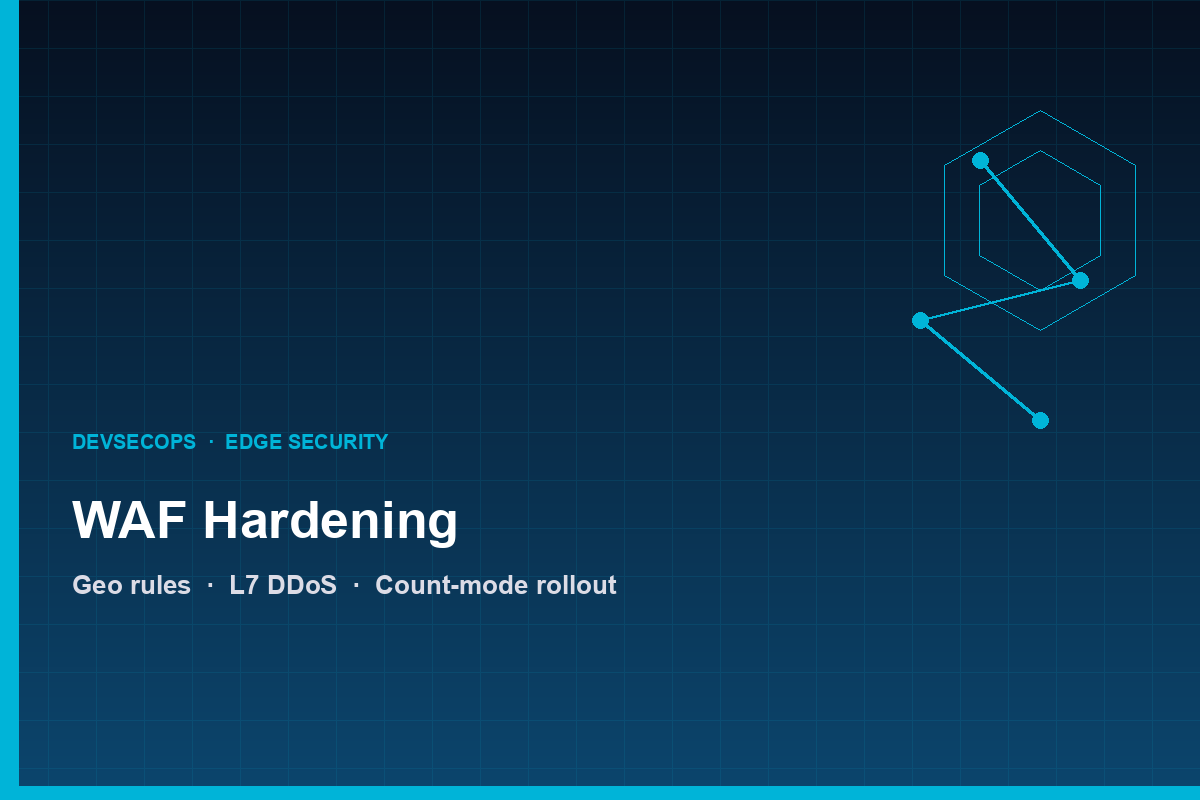
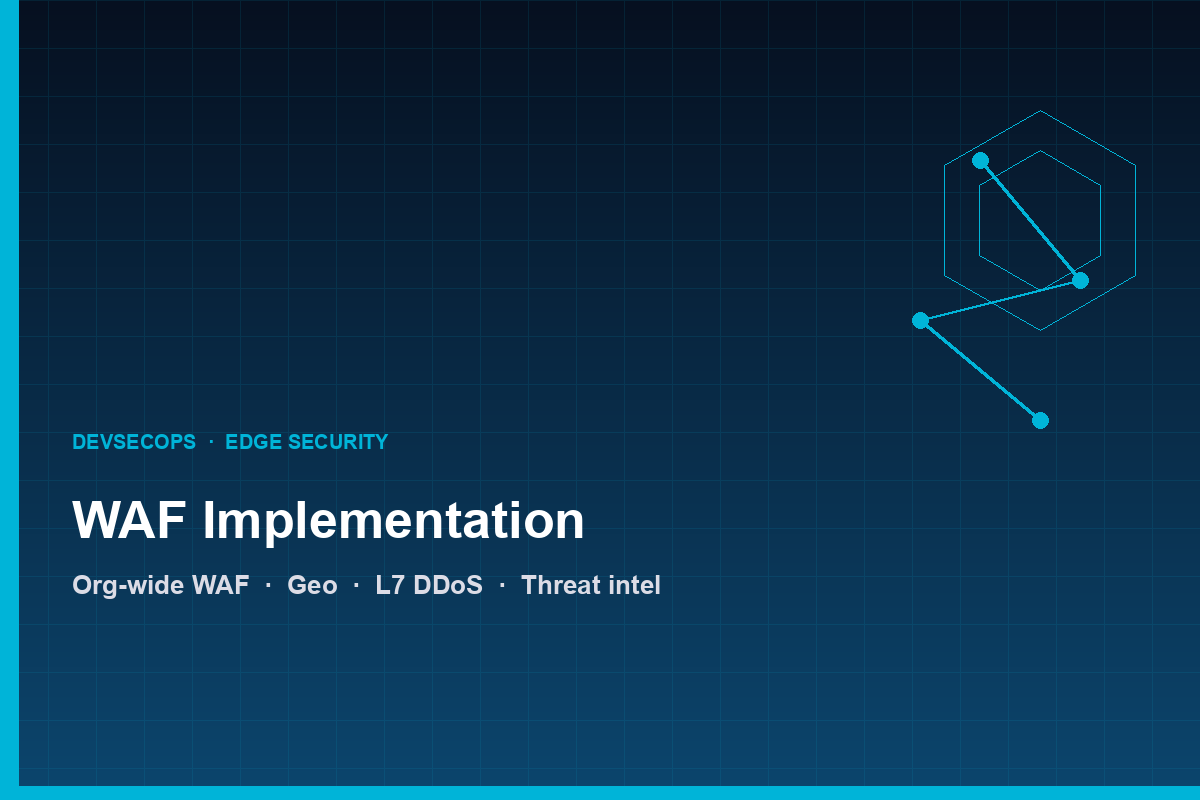
Rewrite WAF as an org-wide implementation and stop HTML from being cached for a year.
The resume page was served with a 1-year cache header, so visitors could keep seeing the old System Engineer version after deploys.

Changed region(s): [[0.1542, 0.625, 0.4933, 0.6875], [0.3083, 0.7188, 0.555, 0.75], [0.0617, 0.7188, 0.2775, 0.75]]

diff --git a/Resume/index.html b/Resume/index.html
@@ -119,7 +119,7 @@
                         <p class="profile_description">
                             DevSecOps Engineer with 8 years of experience across IT operations, cloud infrastructure, and cybersecurity.
                             I design Zero Trust access, harden cloud and edge controls, and automate secure infrastructure on AWS with Terraform, IAM, Docker, and Kubernetes.
-                            Currently leading DevSecOps at Viz.ai — JIT access, WAF hardening, and cloud security posture in a HIPAA-regulated, high-velocity platform.
+                            Currently leading DevSecOps at Viz.ai — JIT access, WAF implementation, and cloud security posture in a HIPAA-regulated, high-velocity platform.
                         </p>
                     </section>
                     
@@ -194,11 +194,11 @@
                                     <h3 class="experience_title">DevSecOps Engineer, at Viz.ai</h3>
                                     <span class="experience_company">Aug 2025 – Present | <a href="https://Viz.ai/">Viz.ai</a> </span>
                                     <ul class="experience_description">
-                                            &#8226; Built and rolled out a company-wide JIT access platform across RDS, S3, DynamoDB, Redash, and OpenSearch — replacing standing privileges with time-bound, audited access and an Emergency Access tier.<br>
-                                            &#8226; Eliminated the Ops jump-host dependency for production DB login; implemented a real break-glass user, rotated master credentials, and locked them from developer teams.<br>
-                                            &#8226; Hardened WAF with geolocation restrictions and L7 DDoS rules; rolled out in count mode and tuned over two weeks across QA and Production.<br>
-                                            &#8226; Rotated 321 GCP/customer access keys, reduced AWS Lambda deprecated-runtime functions 32 → 14, and cut the Wiz Medium findings backlog 15% from 1,025.<br>
-                                            &#8226; Enforced Amazon Bedrock Guardrails across AWS accounts; moved Mobile and QA behind VPN with VPN-authenticated GitHub Actions, avoiding ~$350/month in macOS CI cost.<br>
+                                            &#8226; JIT Access Platform — built and rolled out company-wide across RDS, S3, DynamoDB, Redash, and OpenSearch; replaced standing privileges with time-bound, audited access and an Emergency Access tier.<br>
+                                            &#8226; Implemented IAM authentication for production DB logins; added a real break-glass user, rotated master credentials, and locked them from developer teams.<br>
+                                            &#8226; Implemented a company-wide WAF with geolocation restrictions, L7 DDoS protection, and threat intelligence; rolled out in count mode and tuned over two weeks across QA and Production.<br>
+                                            &#8226; Rotated 321 GCP/customer access keys, reduced AWS Lambda deprecated-runtime functions 32 → 0, and cut the Wiz findings backlog by 75%.<br>
+                                            &#8226; Enforced Amazon Bedrock Guardrails across AWS accounts; moved Mobile and QA behind the company network with VPN-authenticated GitHub Actions, avoiding ~$350/month in macOS CI cost.<br>
                                             &#8226; Decommissioned a legacy healthcare tenant, purged the related external attack surface, and stripped standing S3/DynamoDB permissions from SSO roles.
                                     </ul>
                                 </div>

diff --git a/experience/index.html b/experience/index.html
@@ -51,11 +51,11 @@
             <h3>DevSecOps Engineer</h3>
             <p>Aug 2025 – Present | <a href="https://viz.ai/">Viz.ai</a></p>
             <ul>
-              &#8226; Built and rolled out a company-wide JIT access platform across RDS, S3, DynamoDB, Redash, and OpenSearch — replacing standing privileges with time-bound, audited access and an Emergency Access tier.<br>
-              &#8226; Eliminated the Ops jump-host dependency for production DB login; implemented a real break-glass user, rotated master credentials, and locked them from developer teams.<br>
-              &#8226; Hardened WAF with geolocation restrictions and L7 DDoS rules; rolled out in count mode and tuned over two weeks across QA and Production.<br>
-              &#8226; Rotated 321 GCP/customer access keys, reduced AWS Lambda deprecated-runtime functions 32 → 14, and cut the Wiz Medium findings backlog 15% from 1,025.<br>
-              &#8226; Enforced Amazon Bedrock Guardrails across AWS accounts; moved Mobile and QA behind VPN with VPN-authenticated GitHub Actions, avoiding ~$350/month in macOS CI cost.<br>
+              &#8226; Built and rolled out a company-wide JIT access platform across RDS, S3, DynamoDB, Redash, and OpenSearch. Replaced standing privileges with time-bound, audited access and an Emergency Access tier.<br>
+              &#8226; Implemented IAM authentication for production DB logins; implemented a real break-glass user, rotated master credentials, and locked them from developer teams.<br>
+              &#8226; Implemented a company-wide WAF with geolocation restrictions, L7 DDoS protection, and threat intelligence; rolled out in count mode and tuned over two weeks across QA and Production.<br>
+              &#8226; Rotated 321 GCP/customer access keys, reduced AWS Lambda deprecated-runtime functions 32 → 0, and cut the Wiz findings backlog by 75%.<br>
+              &#8226; Enforced Amazon Bedrock Guardrails across AWS accounts; moved Mobile and QA behind the company network with VPN-authenticated GitHub Actions, avoiding ~$350/month in macOS CI cost.<br>
               &#8226; Decommissioned a legacy healthcare tenant, purged the related external attack surface, and stripped standing S3/DynamoDB permissions from SSO roles.
           </ul>
         </div>

diff --git a/index.html b/index.html
@@ -84,7 +84,7 @@
         
         <p>DevSecOps Engineer with 8 years of experience across IT operations, cloud infrastructure, and cybersecurity.
           I design Zero Trust access, harden cloud and edge controls, and automate secure infrastructure on AWS with Terraform, IAM, Docker, and Kubernetes.
-          Currently leading DevSecOps at Viz.ai — JIT access, WAF hardening, and cloud security posture in a HIPAA-regulated, high-velocity platform.</p>
+          Currently leading DevSecOps at Viz.ai, focusing on CI/CD pipeline hardening, JIT access, WAF implementation, and cloud security posture in a HIPAA-regulated, high-velocity platform.</p>
         
         <div class="box-container">
             <div class="box">
@@ -199,10 +199,10 @@
               <p>Aug 2025 – Present | <a href="https://viz.ai/">Viz.ai</a></p>
               <ul>
                 &#8226; Built and rolled out a JIT access platform across RDS, S3, DynamoDB, Redash, and OpenSearch, replacing standing privileges with time-bound, audited access.<br>
-                &#8226; Eliminated the Ops jump-host dependency for production DB login; implemented break-glass access and rotated master credentials.<br>
-                &#8226; Hardened WAF with geo-restrictions and L7 DDoS rules across QA and Production.<br>
-                &#8226; Rotated 321 GCP/customer access keys; reduced Lambda deprecated runtimes 32 → 14; cut Wiz Medium findings 15%.<br>
-                &#8226; Moved Mobile and QA behind VPN with VPN-authenticated GitHub Actions, avoiding ~$350/month in macOS CI.
+                &#8226; Implemented IAM authentication for production DB logins; added break-glass access and rotated master credentials.<br>
+                &#8226; Implemented a company-wide WAF with geo-restrictions, L7 DDoS protection, and threat intelligence across QA and Production.<br>
+                &#8226; Rotated 321 GCP/customer access keys; reduced Lambda deprecated runtimes 32 → 0; cut Wiz findings 75%.<br>
+                &#8226; Moved Mobile and QA behind the company network with VPN-authenticated GitHub Actions, avoiding ~$350/month in macOS CI.
             </ul>
           </div>
         </div>
